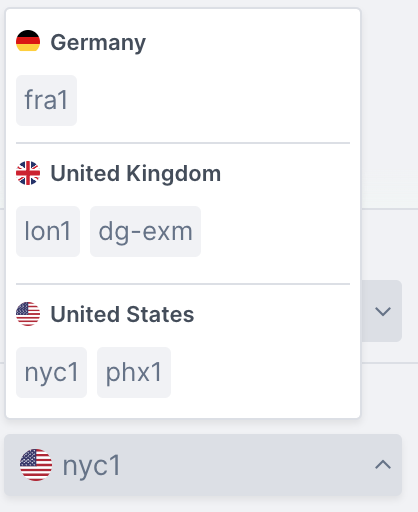
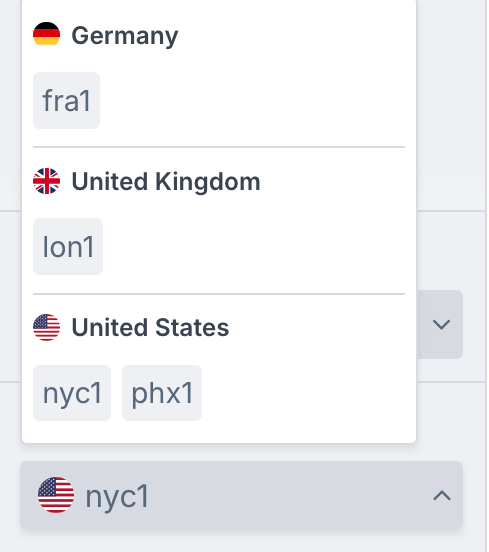
Update region details

diff --git a/content/docs/overview/regions.md b/content/docs/overview/regions.md
@@ -50,19 +50,3 @@ You can also pass a `--region <CODE>` parameter to any CLI command to execute it
 | GPU Kubernetes   |  ✓   |  ✗   |  ✗   |  ✗   |
 | GPU Compute      |  ✓   |  ✗   |  ✗   |  ✗   |
 
-## External Regions
-
-### Deep Green - Exmouth Region
-
-All users are now given the option to select the Deep Green region (DG-EXM) from our range of regions; from here, you’ll be able to run your cloud workloads on Deep Green’s Exmouth (UK) data center.
-
-As Deep Green continues to expand, you’ll be able to run your workloads at a range of Deep Green data center sites, with waste heat from your compute workloads used to generate hot water communities across the UK.
-
-Overall, this partnership means that users choosing the Deep Green region will be running their instances using 100% renewable energy.
-
-| Products available on DG-EXM|     |
-|:----------------------------|:---:|
-| GPU Compute                 |  ✓  |
-| Volumes                     |  ✓  |
-
-For more information on our Partnership with Deep Green, please visit our [Deep Green article](https://www.civo.com/blog/greener-cloud-computing-deep-green). 
